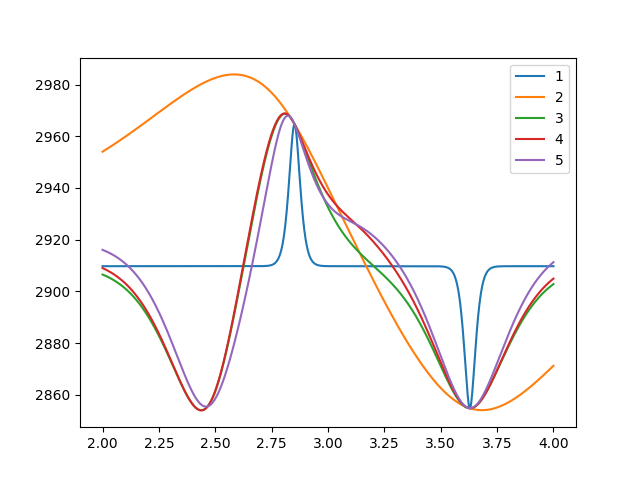
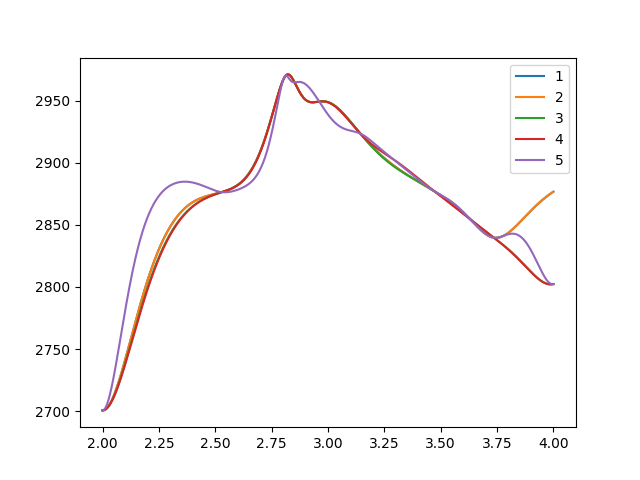
Plotting 3D Utility Function

diff --git a/3DimUtility.py b/3DimUtility.py
@@ -1,0 +1,147 @@
+from bayesian_optimization import UtilityFunction, BayesianOptimization
+import numpy as np
+import matplotlib.pyplot as plt
+import matplotlib.animation as animation
+from ThreeDEnv import environment_array
+
+
+
+utility_function = UtilityFunction(kind="ei",xi=0,kappa=0)
+def target(x,y,z):
+    return environment_array(x,y,z)
+
+optimizer = BayesianOptimization(target, {'z': (2, 4),'y':(40,65),'x':(1000,4000)}, random_state=250)
+#optimizer.maximize(init_points=int(input('Enter the number of random steps: ')),n_iter=0)
+
+
+
+
+'''probe_point(np.min(x),np.max(y))
+probe_point(np.max(x),np.max(y))
+probe_point(np.max(x),np.min(y))'''
+
+def probe_point(x,y,z):
+    return optimizer.probe(params={"x": x, "y": y, "z": z},lazy=True,)
+probe_point(1000,40,2)
+probe_point(1000,40,4)
+probe_point(4000,40,4)
+probe_point(4000,65,4)
+probe_point(4000,65,2)
+probe_point(1000,65,2)
+probe_point(1000,65,4)
+probe_point(2500,52.5,3)
+optimizer.maximize(n_iter=0,init_points=0)
+optimizer.maximize(n_iter=20, init_points = 2)
+
+
+
+
+fig = plt.figure()
+ax = fig.add_subplot(111, projection='3d')
+a = []
+b = []
+j = []
+cv = []
+def utilitytarget(xtarget,ytarget,ztarget):
+    xyparam = np.array([[xtarget,ytarget,ztarget]])
+    return float((utility_function.utility(xyparam, optimizer._gp, 0)))
+
+
+
+
+
+
+for i in range(100000):
+
+    x = np.random.uniform(1000,4000)
+    y = 40
+    z = np.random.uniform(2,4)
+    c = utilitytarget(x,y,z)
+    i = i +1
+    a.append(x)
+    b.append(y)
+    j.append(z)
+    cv.append(c)
+    i = i + 1
+
+
+
+
+for i in range(100000):
+
+    x = np.random.uniform(1000,4000)
+    y = np.random.uniform(40,65)
+    z = 4
+    c = utilitytarget(x,y,z)
+    i = i +1
+    a.append(x)
+    b.append(y)
+    j.append(z)
+    cv.append(c)
+    i = i + 1
+
+for i in range(100000):
+
+    x = np.random.uniform(1000,4000)
+    y = np.random.uniform(40,65)
+    z = 2
+    c = utilitytarget(x,y,z)
+    i = i +1
+    a.append(x)
+    b.append(y)
+    j.append(z)
+    cv.append(c)
+    i = i + 1
+
+for i in range(100000):
+
+    x = 1000
+    y = np.random.uniform(40,65)
+    z = np.random.uniform(2,4)
+    c = utilitytarget(x,y,z)
+    i = i +1
+    a.append(x)
+    b.append(y)
+    j.append(z)
+    cv.append(c)
+    i = i + 1
+
+for i in range(100000):
+
+    x = 4000
+    y = np.random.uniform(40,65)
+    z = np.random.uniform(2,4)
+    c = utilitytarget(x,y,z)
+    i = i +1
+    a.append(x)
+    b.append(y)
+    j.append(z)
+    cv.append(c)
+    i = i + 1
+
+
+
+for i in range(100000):
+
+    x = np.random.uniform(1000,4000)
+    y = 65
+    z = np.random.uniform(2,4)
+    c = utilitytarget(x,y,z)
+    i = i +1
+    a.append(x)
+    b.append(y)
+    j.append(z)
+    cv.append(c)
+    i = i + 1
+
+
+
+
+
+img = ax.scatter(a, b, j,c=cv, cmap=plt.jet(),marker="s")
+fig.colorbar(img)
+ax.set_xlabel('Welding Energy (J)')
+ax.set_ylabel('Vibration amplitude(um)')
+ax.set_zlabel('Clamping pressure (bar)')
+plt.show()
+plt.savefig('3D utility 24 opt steps 3 random')

diff --git a/3Doptimisation.py b/3Doptimisation.py
@@ -13,7 +13,8 @@ cv = []
 
 def black_box_function(x, y,z):
     return environment_array(x,y,z)
-'''for i in range(100000):
+
+for i in range(10000):
 
     x = np.random.uniform(1000,4000)
     y = np.random.uniform(40,65)
@@ -24,11 +25,11 @@ def black_box_function(x, y,z):
     b.append(y)
     j.append(z)
     cv.append(c)
-    i = i + 1'''
+    i = i + 1
 
 
 
-'''for i in range(100000):
+for i in range(10000):
 
     x = np.random.uniform(1000,4000)
     y = np.random.uniform(40,65)
@@ -39,9 +40,9 @@ def black_box_function(x, y,z):
     b.append(y)
     j.append(z)
     cv.append(c)
-    i = i + 1'''
+    i = i + 1
 
-'''for i in range(100000):
+for i in range(100000):
 
     x = 1000
     y = np.random.uniform(40,65)
@@ -52,9 +53,9 @@ def black_box_function(x, y,z):
     b.append(y)
     j.append(z)
     cv.append(c)
-    i = i + 1'''
+    i = i + 1
 
-'''for i in range(100000):
+for i in range(100000):
 
     x = 4000
     y = np.random.uniform(40,65)
@@ -65,7 +66,7 @@ def black_box_function(x, y,z):
     b.append(y)
     j.append(z)
     cv.append(c)
-    i = i + 1'''
+    i = i + 1
 
 for i in range(10000):
 
@@ -80,7 +81,7 @@ for i in range(10000):
     cv.append(c)
     i = i + 1
 
-for i in range(10000):
+'''for i in range(100000):
 
     x = np.random.uniform(1000,4000)
     y = 52.5
@@ -91,7 +92,7 @@ for i in range(10000):
     b.append(y)
     j.append(z)
     cv.append(c)
-    i = i + 1
+    i = i + 1'''
 
 
 
@@ -108,7 +109,7 @@ for i in range(10000):
     cv.append(c)
     i = i + 1
 
-for i in range(10000):
+'''for i in range(100000):
 
     x = 2500
     y = np.random.uniform(40,65)
@@ -119,12 +120,12 @@ for i in range(10000):
     b.append(y)
     j.append(z)
     cv.append(c)
-    i = i + 1
+    i = i + 1'''
 
 img = ax.scatter(a, b, j,c=cv, cmap=plt.jet())
 fig.colorbar(img)
 
-pbounds = {'y': (40, 65), 'z': (2, 4),'x':(1000,4000)}
+'''pbounds = {'y': (40, 65), 'z': (2, 4),'x':(1000,4000)}
 optimizer = BayesianOptimization(
     f=black_box_function,
     pbounds=pbounds,
@@ -148,7 +149,7 @@ for res in enumerate(optimizer.res):
     ylist.append(float(res[1].get('params').get('y')))
     zlist.append(float(res[1].get('params').get('z')))
 
-ax.scatter(xlist,ylist,zlist,marker='+')
+ax.scatter(xlist,ylist,zlist,marker='+')'''
 
 ax.set_xlabel('Welding Energy (J)')
 ax.set_ylabel('Vibration amplitude(um)')

diff --git a/Utility function plotting.py b/Utility function plotting.py
@@ -70,10 +70,10 @@ def plot_gp(optimizer, x, y):
 
     axis.legend(loc=2, bbox_to_anchor=(1.01, 1), borderaxespad=0.)
     acq.legend(loc=2, bbox_to_anchor=(1.01, 1), borderaxespad=0.)
-
+optimizer.maximize(init_points=2, n_iter=6)
 plot_gp(optimizer, c, y)
 
-optimizer.maximize(init_points=0, n_iter=1)
+
 #plot_gp(optimizer, c, y)
 
 utility_function= UtilityFunction(kind = 'ei', kappa = 5, xi = 0.001)

diff --git a/bayesian_optimization.py b/bayesian_optimization.py
@@ -188,8 +188,8 @@ class BayesianOptimization(Observable):
                  init_points=5,
                  n_iter=25,
                  acq='ei',
-                 kappa=1,
-                 xi=0.2,
+                 kappa=10,
+                 xi=1,
                  **gp_params):
         """Mazimize your function"""
         self._prime_subscriptions()
